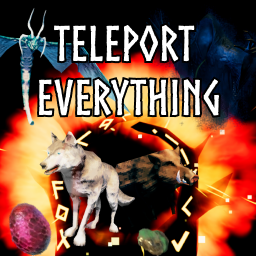
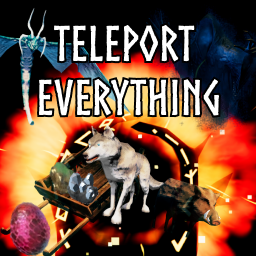
version 2.6.0

Changed region(s): [[0.0, 0.4688, 0.875, 1.0]]

diff --git a/TeleportEverything/CoreLogic.cs b/TeleportEverything/CoreLogic.cs
@@ -107,20 +107,24 @@ namespace TeleportEverything
         }
 
         private static int placedEnemies;
-        public static void TeleportCreatures(Player player, List<Character> creatures, bool hasEnemies=false)
+        public static void TeleportCreatures(Player player, List<Character> creatures, bool areEnemies=false)
         {
             placedEnemies = 0;
             foreach (Character c in creatures)
             {
                 c.m_nview.ClaimOwnership();
-                SetPositionAttempt(c, player.m_teleportTargetPos, player.m_teleportTargetRot, hasEnemies);
+                if(!areEnemies && c.TryGetComponent<Tameable>(out var tameable))
+                {
+                    tameable.m_unsummonDistance = 0f;
+                }
+                SetPositionAttempt(c, player.m_teleportTargetPos, player.m_teleportTargetRot, areEnemies);
             }
 
             if (placedEnemies > 0)
             {
                 var placedEnemiesMessage = Localization.instance.Localize("$te_transported_enemies_message", placedEnemies.ToString());
                 TeleportEverythingLogger.LogInfo(placedEnemiesMessage);
-                DisplayMessage(placedEnemiesMessage);
+                DisplayLongMessage(placedEnemiesMessage);
             }
         }
 
@@ -129,18 +133,18 @@ namespace TeleportEverything
             return EnableMod?.Value == true;
         }
 
-        private static void SetPositionAttempt(Character c, Vector3 destination, Quaternion playerRotation, bool hasEnemies)
+        private static void SetPositionAttempt(Character c, Vector3 destination, Quaternion playerRotation, bool isEnemy)
         {
             var radius = EnemySpawnRadius?.Value ?? 3;
             var tries = 1;
-            var offset = GetSpawnOffset(c, playerRotation, radius, hasEnemies);
+            var offset = GetSpawnOffset(c, playerRotation, radius, isEnemy);
 
             while (tries <= 5)
             {
                 var newPosition = destination;
                 newPosition += offset;
-                newPosition += GetRandomLocation(radius, hasEnemies);
-                if (!CharacterFits(newPosition, c, hasEnemies, out var placeAt))
+                newPosition += GetRandomLocation(radius, isEnemy);
+                if (!CharacterFits(newPosition, c, out var placeAt))
                 {
                     tries++;
                     continue;
@@ -148,8 +152,10 @@ namespace TeleportEverything
 
                 newPosition.y = placeAt + UP_OFFSET;
                 SetPosition(c, newPosition, playerRotation);
+                c.m_body.velocity = Vector3.zero;
+                c.m_maxAirAltitude = c.transform.position.y;
                 c.SetLookDir(c.transform.position);
-                if (hasEnemies)
+                if (isEnemy)
                 {
                     placedEnemies++;
                 }
@@ -158,9 +164,9 @@ namespace TeleportEverything
             }
         }
 
-        private static Vector3 GetRandomLocation(int radius, bool hasEnemies)
+        private static Vector3 GetRandomLocation(int radius, bool isEnemy)
         {
-            var random = (hasEnemies) ? Random.insideUnitCircle * radius : Random.insideUnitCircle * 0.5f;
+            var random = (isEnemy) ? Random.insideUnitCircle * radius : Random.insideUnitCircle * 0.5f;
             return new Vector3(random.x, 0, random.y);
         }
 
@@ -169,11 +175,11 @@ namespace TeleportEverything
             return rot * Vector3.forward * offsetValue;
         }
 
-        private static Vector3 GetSpawnOffset(Character c, Quaternion playerRotation, int radius, bool hasEnemies)
+        private static Vector3 GetSpawnOffset(Character c, Quaternion playerRotation, int radius, bool isEnemy)
         {
             if (SpawnForwardOffset == null) return SetForwardOffset(playerRotation, 0f);
             var alliesOffset = SpawnForwardOffset.Value;
-            if (!hasEnemies)
+            if (!isEnemy)
             {
                 if (GetPrefabName(c).Equals(LOX, StringComparison.OrdinalIgnoreCase))
                 {
@@ -182,7 +188,7 @@ namespace TeleportEverything
             }
 
             if (SpawnEnemiesForwardOffset == null) return SetForwardOffset(playerRotation, 0f);
-            var spawnForward = (hasEnemies) ? SpawnEnemiesForwardOffset.Value + radius / 2 : alliesOffset;
+            var spawnForward = (isEnemy) ? SpawnEnemiesForwardOffset.Value + radius / 2 : alliesOffset;
             return SetForwardOffset(playerRotation, spawnForward);
         }
 
@@ -217,7 +223,7 @@ namespace TeleportEverything
             return false;
         }
 
-        private static bool CharacterFits(Vector3 position, Character c, bool hasEnemies, out float placeAt)
+        private static bool CharacterFits(Vector3 position, Character c, out float placeAt)
         {
             placeAt = 0f;
 
@@ -225,12 +231,7 @@ namespace TeleportEverything
             {
                 if(!ZoneSystem.instance.GetGroundHeight(new Vector3(position.x, position.y, position.z), out floorHeight))
                 {
-                    if (hasEnemies)
-                    {
-                        return false;
-                    }
-
-                    floorHeight = position.y;
+                    return false;
                 }
             }
 

diff --git a/TeleportEverything/Declarations.cs b/TeleportEverything/Declarations.cs
@@ -16,7 +16,7 @@ namespace TeleportEverything
     internal partial class Plugin : BaseUnityPlugin
     {
         internal const string ModName = "TeleportEverything";
-        internal const string ModVersion = "2.5.2";
+        internal const string ModVersion = "2.6.0";
         internal const string Author = "kpro";
         internal const string ModURL = "https://valheim.thunderstore.io/package/OdinPlus/TeleportEverything/";
         private const string ModGUID = "com."+ Author + "." + ModName;
@@ -29,7 +29,7 @@ namespace TeleportEverything
         public static readonly ManualLogSource TeleportEverythingLogger =
             BepInEx.Logging.Logger.CreateLogSource(ModName);
 
-        private static readonly ConfigSync ConfigSync = new(ModGUID) { DisplayName = ModName, CurrentVersion = ModVersion, MinimumRequiredVersion = "2.5.1" };
+        private static readonly ConfigSync ConfigSync = new(ModGUID) { DisplayName = ModName, CurrentVersion = ModVersion, MinimumRequiredVersion = ModVersion };
         // Mod
         private static ConfigEntry<bool>? _serverConfigLocked;
         public static ConfigEntry<bool>? EnableMod;
@@ -48,7 +48,7 @@ namespace TeleportEverything
         // Transport Enemies
         public static ConfigEntry<int>? SpawnEnemiesForwardOffset;
         public static ConfigEntry<int>? EnemySpawnRadius;
-        private const float UP_OFFSET = .5f;
+        private const float UP_OFFSET = .2f;
         public static ConfigEntry<string>? EnemiesMaskMode;
         public static ConfigEntry<string>? EnemiesTransportMask;
 
@@ -77,7 +77,7 @@ namespace TeleportEverything
         //Trasport carts
         public static ConfigEntry<string>? TransportCartsMode;
         public static ConfigEntry<bool>? ShouldTaxCarts;
-        public static ZDOID? currentAttachedCartId = null;
+        public static ZDOID? attachedTeleportingCartId = null;
         internal static bool currrentCartBeingTaxed = false;
         private const float CART_SIZE = 2.5f;
         private const float CART_FORWARD_OFFSET = 0.8f;
@@ -198,10 +198,10 @@ namespace TeleportEverything
             TransportWolves = config("--- Transport ---", "Transport Wolves", true, "", false);
 
             //Transport Carts
-            TransportCartsMode = config("--- Transport Carts ---", "Transport Carts Mode", "Disabled",
+            TransportCartsMode = config("--- Transport Carts ---", "Transport Carts Mode", "Enabled",
                 new ConfigDescription("Allows transporting carts. (beta)",
                     new AcceptableValueList<string>("Disabled", "Enabled", "Only Dungeons"),
-                    new ConfigurationManagerAttributes { IsAdvanced = true, Order = 2 }));
+                    new ConfigurationManagerAttributes { Order = 2 }));
 
             ShouldTaxCarts = config("--- Transport Carts ---", "Transport Carts Tax Items", true,
                 new ConfigDescription("Take fee from cart prohibited items.", null,
@@ -236,7 +236,7 @@ namespace TeleportEverything
             TransportFee = config("--- Transport Items ---", "Transport fee", 0,
                 new ConfigDescription("Transport Fee in (%) ore",
                     new AcceptableValueRange<int>(0, 100),
-                    new ConfigurationManagerAttributes { IsAdvanced = true, Order = 2 }));
+                    new ConfigurationManagerAttributes { Order = 2 }));
             RemoveTransportFeeFrom = config("--- Transport Items ---", "Remove Transport fee from", "DragonEgg",
                 new ConfigDescription("Add the prefab names to remove fee from items on the server", null,
                     new ConfigurationManagerAttributes { IsAdvanced = true, Order = 1 }));

diff --git a/TeleportEverything/HarmonyPatches.cs b/TeleportEverything/HarmonyPatches.cs
@@ -113,7 +113,7 @@ namespace TeleportEverything
                     DisplayEnemiesMessage();
                 }
 
-                if (!IsTransportCartsDisabled())
+                if (!IsTransportCartsDisabled() && !IsTeleportingCart())
                 {
                     var cart = GetAttachedCart();
                     if (cart != null)
@@ -224,19 +224,19 @@ namespace TeleportEverything
                     //TeleportEverythingLogger.LogInfo("Teleport ended");
                     if (CanTransportCarts())
                     {
-                        if (currentAttachedCartId != null) 
+                        if (attachedTeleportingCartId != null) 
                         {
-                            var attachedCart = GetNearbyCarts(__instance.transform.position, SearchRadius.Value).Where(cart => cart.m_nview.GetZDO().m_uid == currentAttachedCartId).FirstOrDefault();
+                            var attachedCart = GetNearbyCarts(__instance.transform.position, SearchRadius.Value).Where(cart => cart.m_nview.GetZDO().m_uid == attachedTeleportingCartId).FirstOrDefault();
                             if (attachedCart?.CanAttach(__instance.gameObject) == true)
                             {
                                 attachedCart.AttachTo(__instance.gameObject);
                             }
-                            currentAttachedCartId = null;
+                            attachedTeleportingCartId = null;
                         }
                     }
                     if (totalContrabandCount > 0)
                     {
-                        DisplayMessage(Localization.instance.Localize("$te_deducted_items_message", deductedContraband.ToString(), totalContrabandCount.ToString()));
+                        DisplayLongMessage(Localization.instance.Localize("$te_deducted_items_message", deductedContraband.ToString(), totalContrabandCount.ToString()));
                         deductedContraband = 0;
                         totalContrabandCount = 0;
                     }

diff --git a/TeleportEverything/UIPatches.cs b/TeleportEverything/UIPatches.cs
@@ -1,4 +1,5 @@
 using HarmonyLib;
+using System;
 using static ItemDrop;
 
 namespace TeleportEverything
@@ -7,15 +8,37 @@ namespace TeleportEverything
     {
         public static void DisplayMessage(string msg)
         {
-            switch (MessageMode?.Value)
+            if (!MessagesEnabled()) return;
+
+            var modMessageType = GetMessageType(MessageMode.Value);
+            MessageHud.instance.ShowMessage(modMessageType, msg);
+        }
+
+        public static void DisplayLongMessage(string msg)
+        {
+            if (!MessagesEnabled()) return;
+
+            var modMessageType = GetMessageType(MessageMode.Value);
+            if (modMessageType == MessageHud.MessageType.Center)
             {
-                case "top left":
-                    MessageHud.instance.ShowMessage(MessageHud.MessageType.TopLeft, msg);
-                    break;
-                case "centered":
-                    MessageHud.instance.ShowMessage(MessageHud.MessageType.Center, msg);
-                    break;
+                MessageHud.instance.ShowMessage(MessageHud.MessageType.TopLeft, msg);
             }
+            else
+            {
+                MessageHud.instance.ShowMessage(MessageHud.MessageType.Center, msg);
+            }
+        }
+
+        public static bool MessagesEnabled() => !string.IsNullOrWhiteSpace(MessageMode?.Value) && !MessageMode.Value.Equals("No messages", StringComparison.OrdinalIgnoreCase);
+
+        private static MessageHud.MessageType GetMessageType(string messageMode)
+        {
+            if(messageMode.Equals("centered", StringComparison.OrdinalIgnoreCase))
+            {
+                return MessageHud.MessageType.Center;
+            }
+
+            return MessageHud.MessageType.TopLeft;
         }
 
         [HarmonyPatch(typeof(InventoryGrid), nameof(InventoryGrid.UpdateGui))]

diff --git a/TeleportEverything/CartLogic.cs b/TeleportEverything/CartLogic.cs
@@ -35,16 +35,17 @@ namespace TeleportEverything
             cart.m_nview.ClaimOwnership();
 
             var newPosition = pos + SetForwardOffset(rot, CART_FORWARD_OFFSET);
-            if (!ZoneSystem.instance.FindFloor(newPosition, out var height))
+            if (!ZoneSystem.instance.FindFloor(newPosition, out _))
             {
-                newPosition.y += CART_Y_OFFSET;
+                newPosition.y = ZoneSystem.instance.GetSolidHeight(newPosition) + 0.5f;
             }
 
-            cart.transform.SetPositionAndRotation(newPosition, rot);
+            SetPosition(cart, newPosition, rot);
             cart.m_body.velocity = Vector3.zero;
-            cart.m_body.useGravity = false;
-            currentAttachedCartId = cart.m_nview.GetZDO().m_uid;
+            attachedTeleportingCartId = cart.m_nview.GetZDO().m_uid;
         }
+
+        internal static bool IsTeleportingCart() => attachedTeleportingCartId != null;
 
         internal static void RemoveEmptyItems(Vagon cart)
         {

diff --git a/TeleportEverything/CompatibilitySkyheim.cs b/TeleportEverything/CompatibilitySkyheim.cs
@@ -74,7 +74,7 @@ namespace TeleportEverything
 
                 if (totalContrabandCount > 0)
                 {
-                    DisplayMessage(Localization.instance.Localize("$te_deducted_items_message", deductedContraband.ToString(), totalContrabandCount.ToString()));
+                    DisplayLongMessage(Localization.instance.Localize("$te_deducted_items_message", deductedContraband.ToString(), totalContrabandCount.ToString()));
                     deductedContraband = 0;
                     totalContrabandCount = 0;
                 }

diff --git a/TeleportEverything/README.md b/TeleportEverything/README.md
@@ -12,14 +12,22 @@ It's recommended to Install a [BepInEx Configuration Manager](https://valheim.th
 
 ### **Important**
   1. Install on both server and clients for better use
-  2. ServerSynched settings can only be changed by the server owner
+  2. ServerSynced settings can only be changed by the server owner
 
-> Note: There are some settings that only appear when you enable the advanced options in your configuration manager.
+#### Note: There are some advanced settings that only appear when you enable the `advanced options` in your configuration manager.
 
 ## Want to teleport faster?
 Try using also the [QuickTeleport mod](https://valheim.thunderstore.io/package/OdinPlus/QuickTeleport/). It works perfectly with teleport everything and several other mods.
 
 ## Features
+
+### Transport Carts is officially out!
+
+![transport-carts-gif](https://user-images.githubusercontent.com/101152506/220641406-59b27b02-25e9-4737-8b40-ce802c4b1a39.gif)
+
+Attach your player to a cart and try this out! 
+Watch out!! Taxes can be applied to ores/ingots inside the cart.
+> This config is synced with the server. The server owner can toggle it on/off and set the transport fee.
 
 ### Teleport Modes:
 
@@ -42,7 +50,9 @@ Try using also the [QuickTeleport mod](https://valheim.thunderstore.io/package/O
 * Change display message mode: 
     1. top left
     2. center
-    3. none
+    3. no messages
+
+As alies and enemies display messages are fixed, the deducted items and placed enemies messages will display in another position related to the chosen position, trying to avoid missing these messages.
 
 ### **--- Portal Settings ---**
 * Portal Activation Range (advanced): You can increase or reduce the activation range. The default game value is 5 meters.
@@ -90,14 +100,12 @@ ___
 * Three checkboxes that players can quickly enable/disable teleporting each creature. Default: all allowed.
 
 ___
-### **--- Transport Carts ---** (advanced)
-
-![transport-carts-gif](https://user-images.githubusercontent.com/101152506/220641406-59b27b02-25e9-4737-8b40-ce802c4b1a39.gif)
+### **--- Transport Carts ---**
 
 #### Transport Cart Mode
-Choose between `Enabled`, `Disabled` and `Only Dungeons`. Synched with the server. Your player needs to be attached to the cart to transport it.
+Choose between `Enabled`, `Disabled` and `Only Dungeons`. Default: Enabled. Synced with the server. Your player needs to be attached to the cart to transport it.
 
-#### Transport Cart Tax Items
+#### Transport Cart Tax Items (advanced)
 If Trasport Cart is enabled, switch on/off taking fee from prohibited cart items. It uses the Transport Fee configured on the server.
 
 ___
@@ -120,7 +128,7 @@ ___
 #### Transport Dragon Eggs / Transport Ores
 * If toggled on, players can transport **ores, ingots, and eggs**. 
 
-#### Transport fee (advanced)
+#### Transport fee
 * In order to offset the advantage of transporting ores, players may set a **"transport fee"** that deducts a percentage of the transported ores, ingots. For example, a 10% fee would take 3 out of 30 ores. Default: 0%.
 * Dragon eggs are not taxed by default, but you can change it in the Remove Fee field.
 
@@ -183,19 +191,27 @@ The mod is compatible with several other mods and we are always improving it.
 - ![YES]: TargetPortal
 - ![YES]: Wayshrine
 - ![YES]: XPortal
-- ![YES]: AllTameableHandH
-  - (If your vertical tolerance is low, you may not be able to transport a flying drake)
+- ![YES]: MagicPlugin
+- ![YES]: Fall_Damage_For_Creatures
+  - The creatures will spawn in the ground in front of the player to avoid them falling on teleport.
 - ![PARTIAL]: UnrestrictedPortals
   - You can use the ore configs from UnrestrictedPortals if you disable Teleport Ore or Dragon Eggs checkboxes from TeleportEverything config.
   - Item Fees don't work if you are using UnrestrictedPortals configs.
 
 <p>
-  <p align="center"><h2>For Questions or Comments find Elg or KPro in the Odin Plus Team on Discord:</h2></p>
+  <p align="center"><h2>For Questions or Comments find Elg in the Odin Plus Team on Discord:</h2></p>
 
   <p align="center"><a href="https://discord.gg/mbkPcvu9ax"><img src="https://i.imgur.com/Ji3u63C.png" alt="Odin Plus Discord"></a>
 </p>
 
 ## Changelog
+- Version 2.6.0
+  - Add compatibility with Fall_Damage_For_Creatures
+  - Add compatibility with MagicPlugin
+  - Summons can also be teleported
+  - Fix "take them with you" mode
+  - Improve transport carts
+  - Improve message mode
 - Version 2.5.2
   - Update ServerSync
   - Add compatibility with Xportal to the docs
